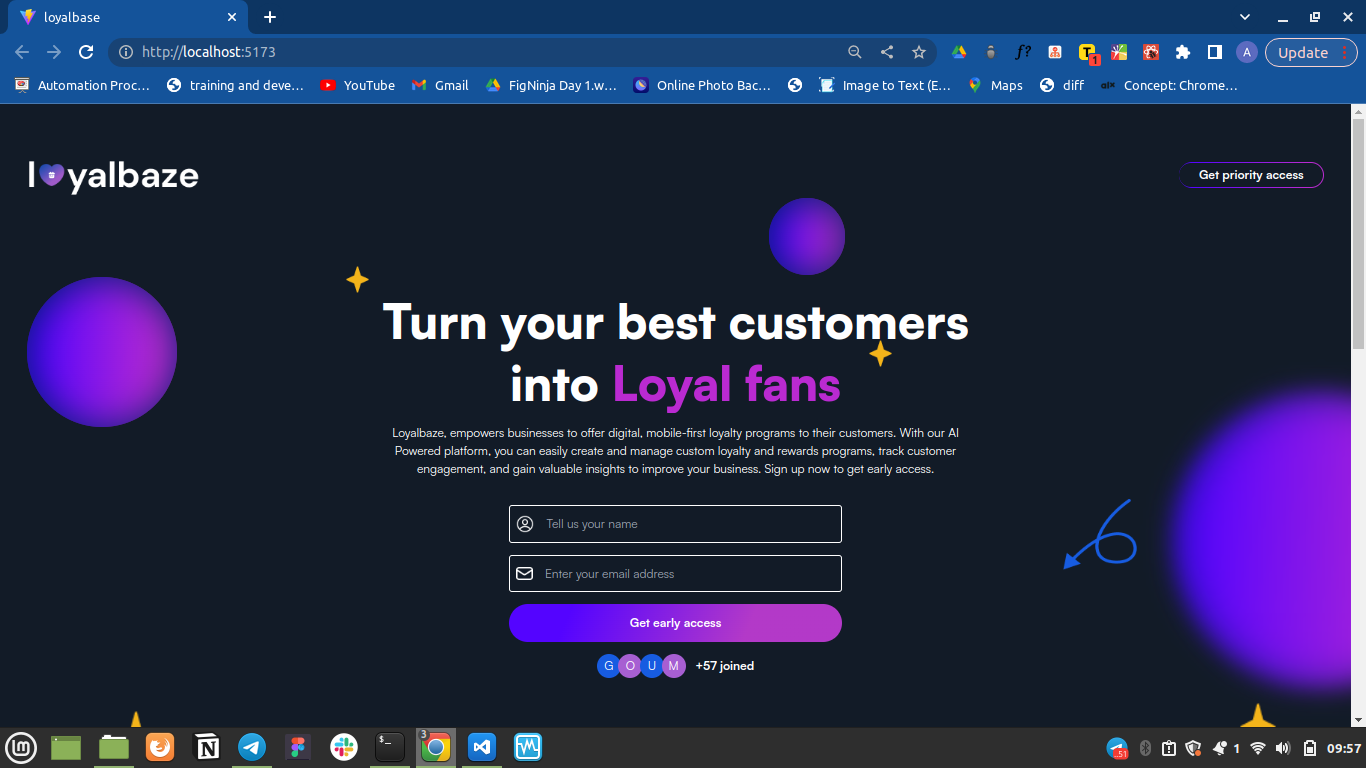
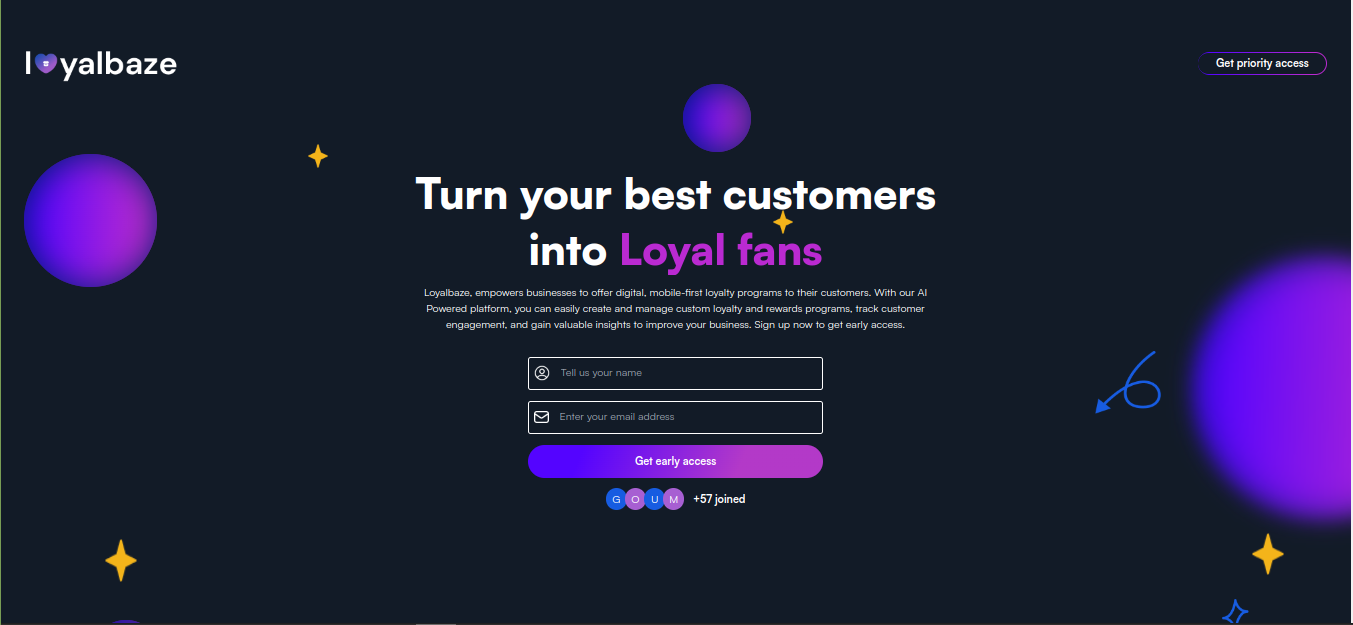
update

diff --git a/README.md b/README.md
@@ -8,7 +8,6 @@ An implementation of loyalbaze landing page using html, css, React and Tailwindc
 - Home page
 
 ## Tech/framework used
-- Html
 - React
 - Css
 - TailwindCss
@@ -18,7 +17,7 @@ An implementation of loyalbaze landing page using html, css, React and Tailwindc
 
 ![screenshot](/public/loyal-baze-herosection.png)
 
-![screenshot](/public/loyal-baze-sectiontwo.png)
+![screenshot](/public/section-two.png)
 
 ## Contact
 If you want to contact me you can reach me at
